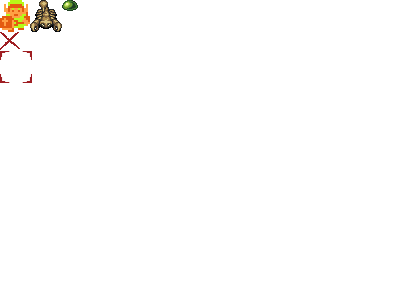
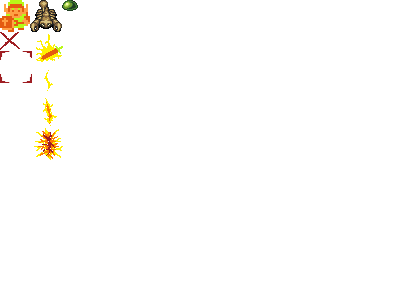
add skill image

diff --git a/src/components/slime.js b/src/components/slime.js
@@ -106,6 +106,7 @@ export default class Slime extends Monster {
     if (this.isShowingHp) {
       super.updateHp();
     }
+    const attackOffset = 6;
     switch (this.status) {
       case CONSTANTS.MONSTER_STATUS.ATTACKING: {
         this.sprite.texture = this.textures[
@@ -114,14 +115,14 @@ export default class Slime extends Monster {
         let dx = 0;
         let dy = 0;
         if (this.dir === CONSTANTS.DIRECTION.LEFT) {
-          dx = -8 * this.nowAttackTiming / this.attackDuration;
+          dx = -1 * attackOffset * this.nowAttackTiming / this.attackDuration;
         } else if (this.dir === CONSTANTS.DIRECTION.RIGHT) {
-          dx = 8 * this.nowAttackTiming / this.attackDuration;
+          dx = attackOffset * this.nowAttackTiming / this.attackDuration;
         }
         if (this.dir === CONSTANTS.DIRECTION.UP) {
-          dy = -8 * this.nowAttackTiming / this.attackDuration;
+          dy = -1 * attackOffset * this.nowAttackTiming / this.attackDuration;
         } else if (this.dir === CONSTANTS.DIRECTION.DOWN) {
-          dy = 8 * this.nowAttackTiming / this.attackDuration;
+          dy = attackOffset * this.nowAttackTiming / this.attackDuration;
         }
         this.sprite.x = this.x + dx * this.nowAttackFrame;
         this.sprite.y = this.y + dy * this.nowAttackFrame;

diff --git a/src/index.js b/src/index.js
@@ -140,5 +140,6 @@ loader
     'assets/images/slime.json',
     'assets/images/link.json',
     'assets/images/control_unit.json',
+    'assets/images/skill_1.json',
   ])
   .load(setupGame);
